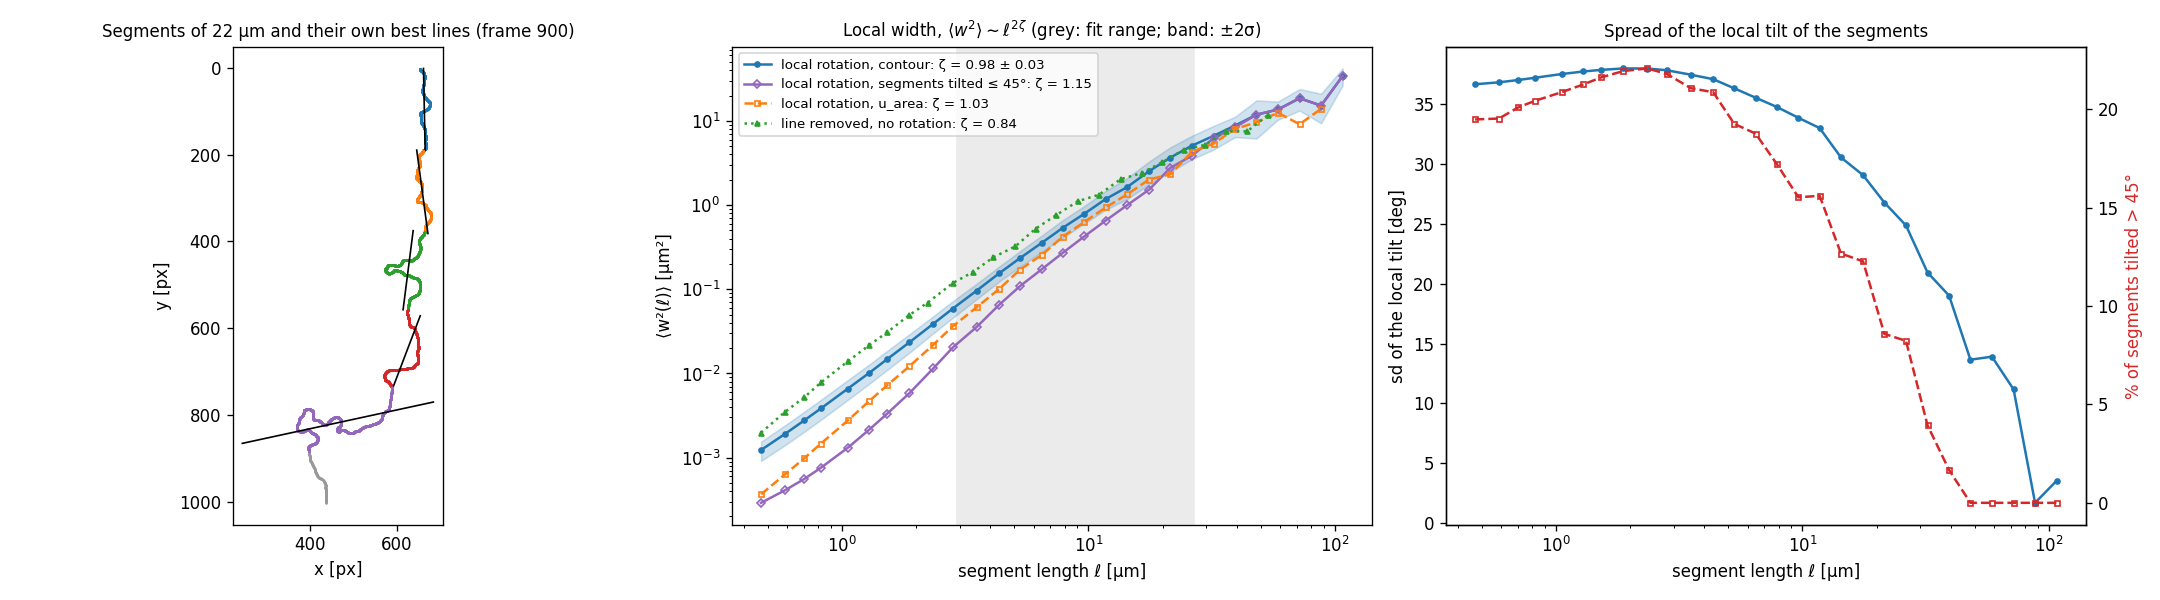
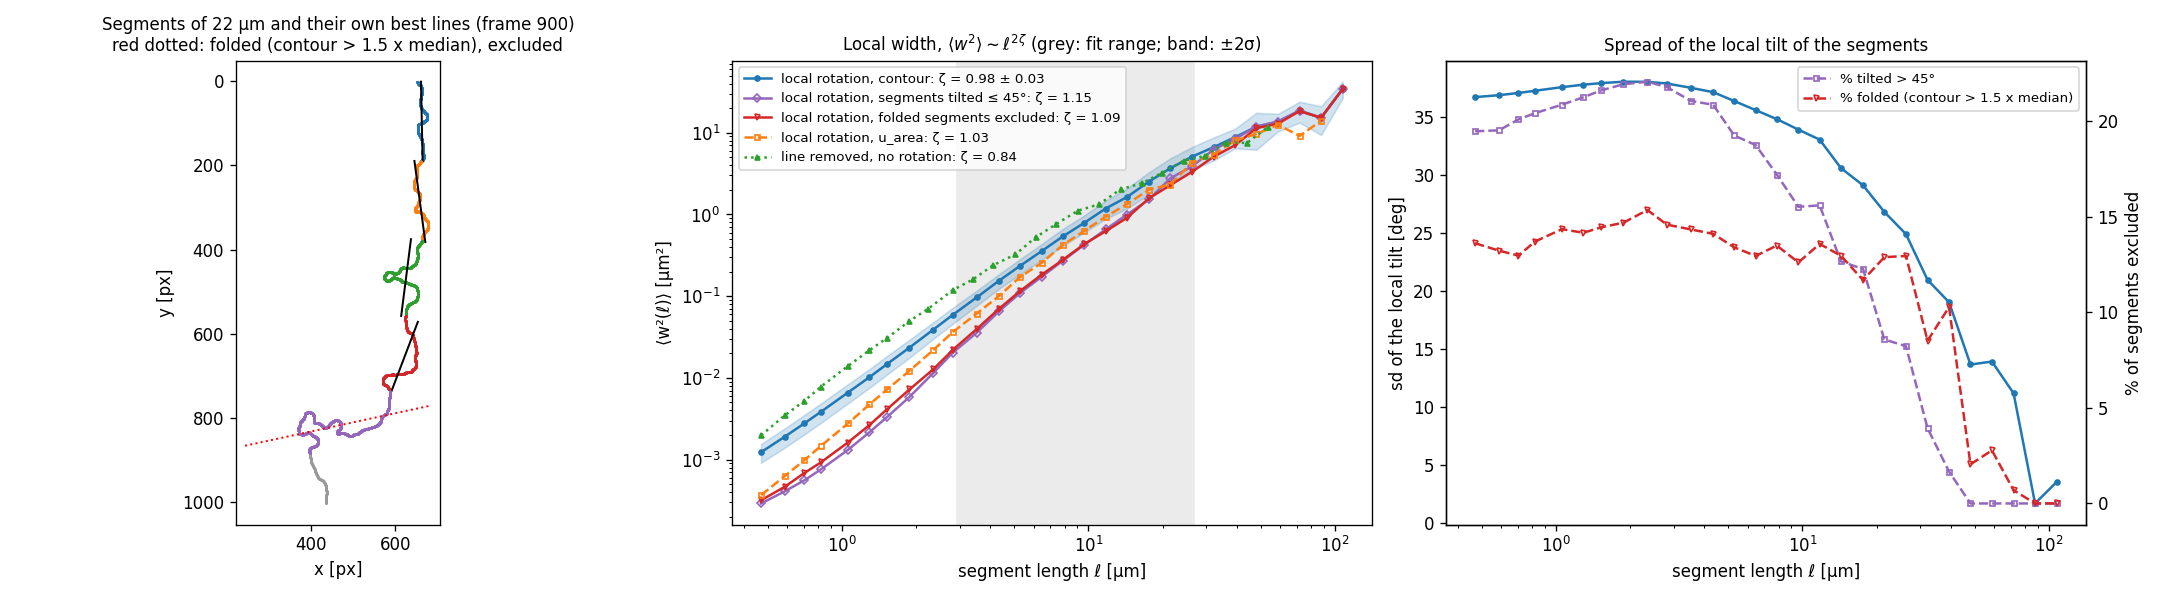
Local width: exclude folded segments (--max-fold)
Claude-Session: https://claude.ai/code/session_01AAEqMPogvcjhkUnN5Zourk

diff --git a/step7_roughness.py b/step7_roughness.py
@@ -67,6 +67,9 @@ ap.add_argument("--from-h", action="store_true", help="use h_xt_sub.npy (no rota
 ap.add_argument("--max-tilt", type=float, default=45,
                 help="local width: also report the result without segments whose own tilt differs from the "
                      "base plane by more than this (deg); they are folds/tongues of the wall")
+ap.add_argument("--max-fold", type=float, default=1.5,
+                help="local width: also report the result without folded segments, whose contour length inside "
+                     "the window exceeds this factor times the median contour length at the same l")
 ap.add_argument("--selftest", action="store_true", help="synthetic tilted wall with known zeta")
 args = ap.parse_args()
 
@@ -225,14 +228,14 @@ def contour_points(domf, step=0.5, border=2):
 def pca_width(y, x, theta0_deg, ells, step=0.5):
     """For windows of projected length l along the base direction (tilt theta0), w2 = smallest
     eigenvalue of the covariance of the contour points (= variance normal to the segment's own
-    best line, i.e. after rotating the segment by its local tilt). Returns per-l lists of w2 and
-    local tilt (deg, relative to theta0)."""
+    best line, i.e. after rotating the segment by its local tilt). Returns per-l lists of w2,
+    local tilt (deg, relative to theta0) and contour length inside the window divided by l."""
     t0 = np.radians(theta0_deg)
     s = y * np.cos(t0) + x * np.sin(t0)
     o = np.argsort(s)
     s, y, x = s[o], y[o], x[o]
     C = [np.concatenate([[0], np.cumsum(v)]) for v in (np.ones_like(y), y, x, y * y, x * x, x * y)]
-    out_w2, out_tilt = [], []
+    out_w2, out_tilt, out_arc = [], [], []
     for l in ells:
         s0 = np.arange(s[0], s[-1] - l, l / 2)
         a = np.searchsorted(s, s0)
@@ -241,15 +244,15 @@ def pca_width(y, x, theta0_deg, ells, step=0.5):
         ok = n >= max(4, 0.5 * l / step)
         a, b, n = a[ok], b[ok], n[ok].astype(float)
         if n.size == 0:
-            out_w2.append(np.empty(0)); out_tilt.append(np.empty(0)); continue
+            out_w2.append(np.empty(0)); out_tilt.append(np.empty(0)); out_arc.append(np.empty(0)); continue
         my, mx = (C[1][b] - C[1][a]) / n, (C[2][b] - C[2][a]) / n
         syy = (C[3][b] - C[3][a]) / n - my ** 2
         sxx = (C[4][b] - C[4][a]) / n - mx ** 2
         sxy = (C[5][b] - C[5][a]) / n - mx * my
         lam = (syy + sxx) / 2 - np.sqrt(((syy - sxx) / 2) ** 2 + sxy ** 2)
         alpha = 0.5 * np.arctan2(2 * sxy, syy - sxx)          # major axis, from y towards x
-        out_w2.append(np.clip(lam, 0, None)); out_tilt.append(np.degrees(alpha - t0))
-    return out_w2, out_tilt
+        out_w2.append(np.clip(lam, 0, None)); out_tilt.append(np.degrees(alpha - t0)); out_arc.append(n * step / l)
+    return out_w2, out_tilt, out_arc
 
 
 # ------------------------------------------------------------------ self test
@@ -286,7 +289,7 @@ if args.selftest:
             u *= 8 / u.std()
             dom = X < 600 + (Y - H / 2) * np.tan(np.radians(theta)) + u[:, None]
             yy_, xx_ = contour_points(dom)
-            w2l, _ = pca_width(yy_, xx_, theta, ells_t)
+            w2l, _, _ = pca_width(yy_, xx_, theta, ells_t)
             zp.append(fit_power(ells_t.astype(float), np.array([v.mean() for v in w2l]), args.rmin, H * args.rmax_frac)[0] / 2)
         print(f"   local width with local rotation (PCA on the contour): zeta {np.mean(zp):.2f}±{np.std(zp):.2f}")
     raise SystemExit
@@ -394,7 +397,7 @@ if args.from_h:
 else:
     pts = contours
     th_pts = theta0
-per_frame = [pca_width(yy_, xx_, th_pts, ells) for yy_, xx_ in pts]     # [(w2 lists, tilt lists)]
+per_frame = [pca_width(yy_, xx_, th_pts, ells) for yy_, xx_ in pts]     # [(w2, tilt, arc/l lists)]
 W2f = np.array([[v.mean() if v.size else np.nan for v in pf[0]] for pf in per_frame])   # frames x ells
 NW = np.array([[v.size for v in pf[0]] for pf in per_frame])
 # same, without the segments tilted by more than --max-tilt from the base plane (folds, tongues)
@@ -403,6 +406,15 @@ W2r = np.array([[v[k_].mean() if k_.any() else np.nan for v, k_ in zip(pf[0], kp
 NR = np.array([[k_.sum() for k_ in kp] for kp in keepT])
 w2_restr = np.nansum(np.nan_to_num(W2r) * NR, 0) / np.maximum(NR.sum(0), 1)
 frac_excl = 1 - NR.sum(0) / np.maximum(NW.sum(0), 1)
+# same, without folded segments: contour inside the window much longer than typical at that l
+# (relative to the median, because sub-window wiggles already make arc/l > 1 at every scale)
+arc_med = np.array([np.median(np.concatenate([pf[2][j] for pf in per_frame])) if NW[:, j].sum() else np.nan
+                    for j in range(len(ells))])
+keepF = [[a_ <= args.max_fold * arc_med[j] for j, a_ in enumerate(pf[2])] for pf in per_frame]
+W2F = np.array([[v[k_].mean() if k_.any() else np.nan for v, k_ in zip(pf[0], kp)] for pf, kp in zip(per_frame, keepF)])
+NF = np.array([[k_.sum() for k_ in kp] for kp in keepF])
+w2_fold = np.nansum(np.nan_to_num(W2F) * NF, 0) / np.maximum(NF.sum(0), 1)
+frac_fold = 1 - NF.sum(0) / np.maximum(NW.sum(0), 1)
 w2_pca = np.nansum(W2f * NW, 0) / np.maximum(NW.sum(0), 1)
 tilt_sd = np.array([np.std(np.concatenate([pf[1][j] for pf in per_frame])) if NW[:, j].sum() else np.nan
                     for j in range(len(ells))])
@@ -425,23 +437,29 @@ w2_ctrl = np.array([np.mean(np.concatenate([c[0][j] for c in ctrl])) if any(c[0]
 z_ctrl = zfit(w2_ctrl)
 z_shear = res[ref_name]["zW"]
 z_restr = zfit(w2_restr)
+z_fold = zfit(w2_fold)
 print(f"local width w2(l), each segment rotated by its own tilt (PCA), {'contour' if not args.from_h else 'h'}: "
       f"zeta = {z_pca:.3f} ± {dz_pca:.3f}; same on u_{ref_name}: {z_ctrl:.3f}; "
       f"line removed without rotation (w(l) above): {z_shear:.3f}")
 print(f"   without segments tilted > {args.max_tilt:g} deg from the base plane: zeta = {z_restr:.3f} "
       f"(segments excluded: {frac_excl[(ells >= args.rmin) & (ells <= rmax)].mean():.0%} in the fit range)")
+print(f"   without folded segments (contour > {args.max_fold:g} x median at that l): zeta = {z_fold:.3f} "
+      f"(segments excluded: {frac_fold[(ells >= args.rmin) & (ells <= rmax)].mean():.0%} in the fit range)")
 for j in np.unique(np.searchsorted(ells, [8, 25, 85, 250, 850])).clip(0, len(ells) - 1):
     print(f"   l = {ells[j]:5.0f} px ({ells[j] * kk:6.1f} {unit}): w = {np.sqrt(w2_pca[j]) * kk:6.3f} {unit}, "
           f"local tilt sd {tilt_sd[j]:5.1f} deg, {int(NW[:, j].sum())} segments, "
-          f"{frac_excl[j]:.0%} tilted > {args.max_tilt:g} deg")
+          f"{frac_excl[j]:.0%} tilted > {args.max_tilt:g} deg, median contour/l {arc_med[j]:.2f}, "
+          f"{frac_fold[j]:.0%} folded")
 np.savez(os.path.join(args.dir, "local_width.npz"), ells=ells, w2_pca=w2_pca, dw2=dw2, w2_ctrl=w2_ctrl,
          w2_restricted=w2_restr, frac_excluded=frac_excl, max_tilt=args.max_tilt, zeta_restricted=z_restr,
+         w2_unfolded=w2_fold, frac_folded=frac_fold, arc_median=arc_med, max_fold=args.max_fold, zeta_unfolded=z_fold,
          tilt_sd=tilt_sd, n_segments=NW.sum(0), zeta_pca=z_pca, dzeta_pca=dz_pca, zeta_ctrl=z_ctrl,
          theta0=th_pts, every=args.every, rmin=args.rmin, rmax=rmax, um_per_px=k_um)
 
 fig, ax = plt.subplots(1, 3, figsize=(18, 5))
 yy_, xx_ = pts[len(pts) // 2]
-lshow = ells[np.argmin(np.abs(ells * kk - (20 if k_um else 160)))]
+jshow = np.argmin(np.abs(ells * kk - (20 if k_um else 160)))
+lshow = ells[jshow]
 t0r = np.radians(th_pts)
 sx = yy_ * np.cos(t0r) + xx_ * np.sin(t0r)
 ax[0].plot(xx_, yy_, ".", ms=0.6, color="0.6")
@@ -456,23 +474,29 @@ for j, s0 in enumerate(np.arange(sx.min(), sx.max() - lshow, lshow)):
     d = evec[:, 1]
     tt = np.array([-lshow / 2, lshow / 2]) / max(abs(d[0] * np.cos(t0r) + d[1] * np.sin(t0r)), 0.2)
     c = plt.cm.tab10(j % 10)
+    folded = m.sum() * 0.5 / lshow > args.max_fold * arc_med[jshow]
     ax[0].plot(px, py, ".", ms=1.2, color=c)
-    ax[0].plot(cx + tt * d[1], cy + tt * d[0], "-", color="k", lw=1)
+    ax[0].plot(cx + tt * d[1], cy + tt * d[0], ":" if folded else "-", color="r" if folded else "k", lw=1.2)
 ax[0].invert_yaxis(); ax[0].set_aspect("equal")
-ax[0].set_title(f"Segments of {lshow * kk:.0f} {unit} and their own best lines (frame {frames[len(pts) // 2]})", fontsize=10)
+ax[0].set_title(f"Segments of {lshow * kk:.0f} {unit} and their own best lines (frame {frames[len(pts) // 2]})\n"
+                f"red dotted: folded (contour > {args.max_fold:g} x median), excluded", fontsize=10)
 ax[0].set_xlabel("x [px]" if not args.from_h else "h [px]"); ax[0].set_ylabel("y [px]" if not args.from_h else "column")
 ax[1].loglog(ells * kk, w2_pca * kk ** 2, "o-", ms=3, color="C0", label=f"local rotation, {'contour' if not args.from_h else 'h'}: ζ = {z_pca:.2f} ± {dz_pca:.2f}")
 ax[1].fill_between(ells * kk, (w2_pca - 2 * dw2) * kk ** 2, (w2_pca + 2 * dw2) * kk ** 2, color="C0", alpha=0.2)
 ax[1].loglog(ells * kk, w2_restr * kk ** 2, "D-", ms=3, mfc="none", color="C4",
              label=f"local rotation, segments tilted ≤ {args.max_tilt:g}°: ζ = {z_restr:.2f}")
+ax[1].loglog(ells * kk, w2_fold * kk ** 2, "v-", ms=3, mfc="none", color="C3",
+             label=f"local rotation, folded segments excluded: ζ = {z_fold:.2f}")
 ax[1].loglog(ells * kk, w2_ctrl * kk ** 2, "s--", ms=3, mfc="none", color="C1", label=f"local rotation, u_{ref_name}: ζ = {z_ctrl:.2f}")
 ax[1].loglog(res[ref_name]["l"] * kk, res[ref_name]["W2"] * kk ** 2, "^:", ms=3, color="C2", label=f"line removed, no rotation: ζ = {z_shear:.2f}")
 ax[1].axvspan(args.rmin * kk, rmax * kk, color="0.92", zorder=0)
 ax[1].set_xlabel(f"segment length ℓ [{unit}]"); ax[1].set_ylabel(f"⟨w²(ℓ)⟩ [{unit}²]"); ax[1].legend(fontsize=8)
 ax[1].set_title(r"Local width, $\langle w^2\rangle \sim \ell^{2\zeta}$ (grey: fit range; band: ±2σ)", fontsize=10)
 ax[2].semilogx(ells * kk, tilt_sd, "o-", ms=3, label="sd of the local tilt")
-ax2b = ax[2].twinx(); ax2b.semilogx(ells * kk, 100 * frac_excl, "s--", ms=3, color="C3", mfc="none")
-ax2b.set_ylabel(f"% of segments tilted > {args.max_tilt:g}°", color="C3")
+ax2b = ax[2].twinx()
+ax2b.semilogx(ells * kk, 100 * frac_excl, "s--", ms=3, color="C4", mfc="none", label=f"% tilted > {args.max_tilt:g}°")
+ax2b.semilogx(ells * kk, 100 * frac_fold, "v--", ms=3, color="C3", mfc="none", label=f"% folded (contour > {args.max_fold:g} x median)")
+ax2b.set_ylabel("% of segments excluded"); ax2b.legend(fontsize=8, loc="upper right")
 ax[2].set_xlabel(f"segment length ℓ [{unit}]"); ax[2].set_ylabel("sd of the local tilt [deg]")
 ax[2].set_title("Spread of the local tilt of the segments", fontsize=10)
 fig.tight_layout(); fig.savefig(os.path.join(args.dir, "fig_local_width.png"), dpi=120); plt.close(fig)

diff --git a/0_8A_15s_20x_RT_1/REPORT.md b/0_8A_15s_20x_RT_1/REPORT.md
@@ -231,18 +231,19 @@ python step7_roughness.py 0_8A_15s_20x_RT_1 --every 5 --rmin 25
 
 ### Local width with local rotation
 
-Also from `step7_roughness.py` (`fig_local_width.png`, `local_width.npz`). Each frame's wall (1 in 5 frames) is cut into segments of projected length ℓ along the base plane (windows sliding by ℓ/2), and **each segment is rotated by its own tilt**: w² is the smallest eigenvalue of the covariance of its points, i.e. the variance normal to the segment's own best (orthogonal least-squares) line. ⟨w²(ℓ)⟩ is averaged over all segments and frames. The points are the full subpixel contour of the wall, resampled at uniform arc length, so overhangs are part of the shape and need no choice of height. Controls: the same on u_area; the line-removed width without rotation (w(ℓ) above); and the result without the segments whose own tilt differs from the base plane by more than 45° (`--max-tilt`). Self-test on synthetic walls: unbiased for ζ = 0.5 and 0.66 (0.53, 0.66), underestimates ζ = 1 (0.77).
+Also from `step7_roughness.py` (`fig_local_width.png`, `local_width.npz`). Each frame's wall (1 in 5 frames) is cut into segments of projected length ℓ along the base plane (windows sliding by ℓ/2), and **each segment is rotated by its own tilt**: w² is the smallest eigenvalue of the covariance of its points, i.e. the variance normal to the segment's own best (orthogonal least-squares) line. ⟨w²(ℓ)⟩ is averaged over all segments and frames. The points are the full subpixel contour of the wall, resampled at uniform arc length, so overhangs are part of the shape and need no choice of height. Controls: the same on u_area; the line-removed width without rotation (w(ℓ) above); and the result without the segments whose own tilt differs from the base plane by more than 45° (`--max-tilt`); and the result without **folded segments**, whose contour length inside the window exceeds 1.5 times the median contour length at the same ℓ (`--max-fold`; relative to the median because the sub-window wiggles already make the contour longer than ℓ at every scale: median contour/ℓ = 1.17 at 1 µm, 1.30 at 12 µm, 1.52 at 108 µm). The fold filter targets the segments where the wall turns back on itself (tongues around defects), whose best line has no physical meaning; the tilt filter also removes steep but unfolded segments. Self-test on synthetic walls: unbiased for ζ = 0.5 and 0.66 (0.53, 0.66), underestimates ζ = 1 (0.77).
 
-**The wall is far from a small-slope line below ~30 µm.** The local tilt of the segments has a standard deviation of 36–38° for ℓ ≲ 10 µm, 29° at 10–30 µm and 12° at 30–108 µm; 16–21 % of the segments up to ~12 µm are tilted by more than 45° (steps, tongues around defects, flanks of bulges; panel 1 shows a 22 µm segment whose best line follows a horizontal tongue). In this regime the measured exponent depends on how the local tilt is handled, so the local rotation matters, as anticipated.
+**The wall is far from a small-slope line below ~30 µm.** The local tilt of the segments has a standard deviation of 36–38° for ℓ ≲ 10 µm, 29° at 10–30 µm and 12° at 30–108 µm; 16–21 % of the segments up to ~12 µm are tilted by more than 45° (steps, tongues around defects, flanks of bulges; panel 1 shows a 22 µm segment whose best line follows a horizontal tongue; the fold filter flags it, red dotted line). In this regime the measured exponent depends on how the local tilt is handled, so the local rotation matters, as anticipated.
 
-| range | rotation per segment (contour) | same, segments ≤ 45° | rotation, u_area | line removed, no rotation | sd of local tilt |
-|---|---|---|---|---|---|
-| 1–3 µm | 1.12 | 1.40 | 1.30 | 1.09 | 38° |
-| 3–10 µm | 1.05 | 1.22 | 1.17 | 0.99 | 36° |
-| 10–30 µm | 0.93 | 1.13 | 0.89 | 0.69 | 29° |
-| 30–108 µm | 0.57 | 0.60 | 0.38 | 0.57 | 12° |
-| 3–27 µm (default fit) | 0.98 ± 0.03 | 1.15 | 1.03 | 0.84 | 33° |
+| range | rotation per segment (contour) | same, segments ≤ 45° | same, folds excluded | rotation, u_area | line removed, no rotation | sd of local tilt |
+|---|---|---|---|---|---|---|
+| 1–3 µm | 1.12 | 1.40 | 1.33 | 1.30 | 1.09 | 38° |
+| 3–10 µm | 1.05 | 1.22 | 1.18 | 1.17 | 0.99 | 36° |
+| 10–30 µm | 0.93 | 1.13 | 1.06 | 0.89 | 0.69 | 29° |
+| 30–108 µm | 0.57 | 0.60 | 0.69 | 0.38 | 0.57 | 12° |
+| 3–27 µm (default fit) | 0.98 ± 0.03 | 1.15 | 1.09 | 1.03 | 0.84 | 33° |
 
+- **Folds.** 13–15 % of the segments up to ~30 µm are folded, 9 % at 32 µm and none above ~50 µm. Excluding them raises ζ at small scales (1.09 over 3–27 µm, between the full contour, 0.98, and the ≤ 45° restriction, 1.15): the folds add width that grows slowly with ℓ and flatten the full-contour curve. Above ~30 µm all the variants coincide within the noise.
 - **Two regimes.** At small scales (≲ 10 µm) the wall is very rough, ζ_eff ≈ 1.0–1.2 with every method; at large scales (≳ 30 µm), where the wall is locally flat, ζ_eff ≈ 0.5–0.6 and the methods agree (u_area is lower, 0.38). The crossover is at ~10–30 µm. The ζ ≈ 0.75 from S(q) over 2.9–27 µm averages over both regimes.
 - **Possible interpretation (to be confirmed).** The theory of creep predicts several regimes: ζ_eq = 2/3 below the optimal (thermal-nucleus) length, ζ_dep ≈ 1.25 between that length and the size of the avalanches, and ζ_th = 1/2 at larger scales. A depinning-like roughness at a few µm and ζ ≈ 1/2 above ~30 µm would match the last two, with the crossover at the scale of the largest avalanches (their lateral extent reaches 10–55 µm in windows of 20–600 s). The resolution (~1 µm) hides the equilibrium regime if L_opt is sub-micron.
 - **Caveats.** Below ~3 µm the resolution and the contour noise contribute; the large-scale regime spans only a factor 3.5 in ℓ and relatively few independent configurations of one wall; and with local slopes of 30–40° the description of the wall as a single-valued elastic line is itself only approximate at small scales.

diff --git a/README.md b/README.md
@@ -171,7 +171,7 @@ Simulated walls can be analysed with step2/step3 by writing `DIR/h_xt_sub.npy` (
 
 ### `step7_roughness.py`: roughness and structure factor
 
-`python step7_roughness.py DIR [--every 5] [--rmin 16] [--mask-d 20]` (TIFF studies), `--from-h` for video studies or simulations (uses `h_xt_sub.npy`, no rotation), `--selftest` for a synthetic check. The wall is put on its **base plane**: the domain of every N-th frame is rotated by the mean tilt θ0 (as a continuous image, linear interpolation, threshold 0.5) and the residual slope of each frame is removed. Along each row of the rotated frame it measures three heights: **u_area** (area-conserving column height, single-valued, the reference), **u_front** (last crossing) and **u_back** (first crossing); where they differ there is an overhang, and the exponent is trusted only in the range of scales where their S(q) agree. Outputs: S(q) (Hann window, averaged over frames and over thirds of the run), B(r) = ⟨[u(s+r)−u(s)]²⟩ with its local slope ζ_eff(r), the local width w(ℓ), B(r) without pairs near defects, ζ from each (fit range `--rmin` < ℓ < L/4; S(q) log-binned, error by block bootstrap over time), overhang statistics, `roughness.npz` and `fig_roughness.png`. The self-test shows that S(q) is unbiased while B(r) and w(ℓ) underestimate large ζ; use S(q) as the reference. It also computes the **local width with local rotation**: the wall of each frame is cut into segments of projected length ℓ along the base plane, each segment is rotated by its own tilt (w² = smallest eigenvalue of the covariance of its points, i.e. the variance normal to its orthogonal least-squares line), and ⟨w²(ℓ)⟩ is averaged over all segments and frames; for TIFF studies the points are the full subpixel contour (overhangs included), with u_area, the unrotated line-removed width and `--max-tilt` (default 45°: segments more tilted than this from the base plane are excluded in an extra curve) as controls, plus the spread of the local tilt vs ℓ (`local_width.npz`, `fig_local_width.png`). When the local tilt is large, the exponent depends on the method; compare them by range of ℓ. It also computes the **height distribution** P(δu/σ) of the deviations of every point of the wall from its mean position, on the base plane of each frame (rotation by θ0 plus the per-frame line), normalised by the width of each frame, with skewness and excess kurtosis (block-bootstrap errors); variants: mean only (no per-frame line), the three heights, and local distributions in windows of 5 and 20 µm with a line removed in each. Outputs `height_distribution.npz` and `fig_height_distribution.png`.
+`python step7_roughness.py DIR [--every 5] [--rmin 16] [--mask-d 20]` (TIFF studies), `--from-h` for video studies or simulations (uses `h_xt_sub.npy`, no rotation), `--selftest` for a synthetic check. The wall is put on its **base plane**: the domain of every N-th frame is rotated by the mean tilt θ0 (as a continuous image, linear interpolation, threshold 0.5) and the residual slope of each frame is removed. Along each row of the rotated frame it measures three heights: **u_area** (area-conserving column height, single-valued, the reference), **u_front** (last crossing) and **u_back** (first crossing); where they differ there is an overhang, and the exponent is trusted only in the range of scales where their S(q) agree. Outputs: S(q) (Hann window, averaged over frames and over thirds of the run), B(r) = ⟨[u(s+r)−u(s)]²⟩ with its local slope ζ_eff(r), the local width w(ℓ), B(r) without pairs near defects, ζ from each (fit range `--rmin` < ℓ < L/4; S(q) log-binned, error by block bootstrap over time), overhang statistics, `roughness.npz` and `fig_roughness.png`. The self-test shows that S(q) is unbiased while B(r) and w(ℓ) underestimate large ζ; use S(q) as the reference. It also computes the **local width with local rotation**: the wall of each frame is cut into segments of projected length ℓ along the base plane, each segment is rotated by its own tilt (w² = smallest eigenvalue of the covariance of its points, i.e. the variance normal to its orthogonal least-squares line), and ⟨w²(ℓ)⟩ is averaged over all segments and frames; for TIFF studies the points are the full subpixel contour (overhangs included), with u_area, the unrotated line-removed width and `--max-tilt` (default 45°: segments more tilted than this from the base plane are excluded in an extra curve) and `--max-fold` (default 1.5: segments whose contour inside the window is longer than this factor times the median at the same ℓ, i.e. folded, are excluded in another curve) as controls, plus the spread of the local tilt vs ℓ (`local_width.npz`, `fig_local_width.png`). When the local tilt is large, the exponent depends on the method; compare them by range of ℓ. It also computes the **height distribution** P(δu/σ) of the deviations of every point of the wall from its mean position, on the base plane of each frame (rotation by θ0 plus the per-frame line), normalised by the width of each frame, with skewness and excess kurtosis (block-bootstrap errors); variants: mean only (no per-frame line), the three heights, and local distributions in windows of 5 and 20 µm with a line removed in each. Outputs `height_distribution.npz` and `fig_height_distribution.png`.
 
 ## Figures
 

diff --git a/magnetic_fliped/REPORT.md b/magnetic_fliped/REPORT.md
@@ -27,7 +27,7 @@ python step3_eps_sweep.py magnetic_fliped
 
 `python step7_roughness.py magnetic_fliped --from-h --every 1 --rmin 16` (`fig_roughness.png`): S(q) of the subpixel h, with a straight line removed from each frame (residual tilt ≤ 4.6°; the wall is close to horizontal, so no rotation is applied). rms width of the detrended wall 2.4 µm. Fitting 2.7–33 µm: **ζ = 1.10 ± 0.04** from S(q) (thirds of the movie: 1.00, 1.21, 1.02; w(ℓ) gives 1.04, B(r) 0.65, which underestimates ζ ≈ 1 according to the self-test of step7). This is much rougher than the slow wall of Study 2 (ζ ≈ 0.75) and closer to the depinning value ζ_dep ≈ 1.25, consistent with a wall driven faster, nearer to depinning; but the two studies differ in sample region, field, frame rate and magnification, so the comparison is only indicative.
 
-**Local width with local rotation** (`fig_local_width.png`): segments of length ℓ rotated by their own tilt give ζ = 1.09 ± 0.02 (line removed without rotation: 1.04). The local tilt is much smaller than in Study 2 (sd 17–19° at a few µm, 7° at 50 µm), so the rotation matters less here and all estimators agree on ζ ≈ 1.05–1.10.
+**Local width with local rotation** (`fig_local_width.png`): segments of length ℓ rotated by their own tilt give ζ = 1.09 ± 0.02 (line removed without rotation: 1.04). The local tilt is much smaller than in Study 2 (sd 17–19° at a few µm, 7° at 50 µm), so the rotation matters less here and all estimators agree on ζ ≈ 1.05–1.10 (without segments tilted > 45°: 1.10; the fold filter excludes nothing, since h is single-valued in this study).
 
 **Height distribution** (`fig_height_distribution.png`; h decreases as the wall advances here, so δh > 0 means lagging behind): on the base plane of each frame, skewness +0.29 ± 0.08 and excess kurtosis −0.42 ± 0.14; in windows of 20 µm, skewness +0.14 ± 0.08, excess kurtosis +1.1 ± 0.4; in windows of 5 µm, excess kurtosis +4.1 ± 1.0. As in Study 2, the long tail is on the lagging side. Without removing the per-frame line (mean only), the skewness changes sign (−0.13): the residual tilt (up to 4.6°) dominates it, which is why the base plane is needed.
 
